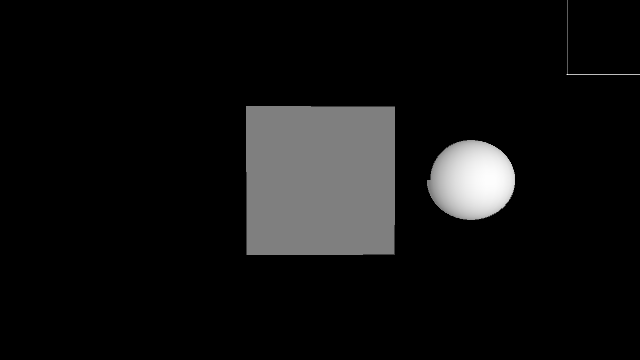
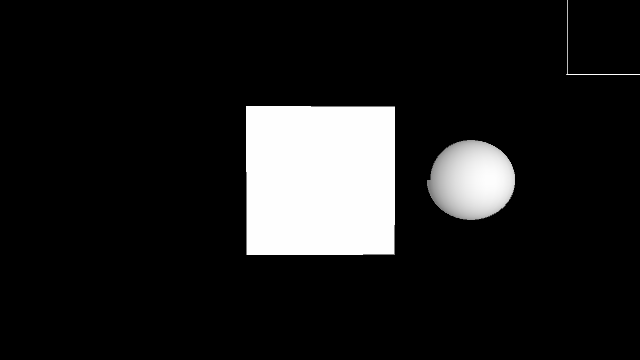
Fix winding order issues for various shapes.

Changed region(s): [[0.375, 0.275, 0.625, 0.7333]]

diff --git a/src/processing_pshape.cc b/src/processing_pshape.cc
@@ -967,15 +967,18 @@ static std::vector<unsigned short> triangulatePolygon(const std::vector<gl::vert
       if( vinds[ p[0] ] == TESS_UNDEF ||
           vinds[ p[1] ] == TESS_UNDEF ||
           vinds[ p[2] ] == TESS_UNDEF ) continue;
-      triangles.push_back( vinds[ p[0] ] );
-      triangles.push_back( vinds[ p[1] ] );
       triangles.push_back( vinds[ p[2] ] );
+      triangles.push_back( vinds[ p[1] ] );
+      triangles.push_back( vinds[ p[0] ] );
    }
 
    return triangles;
 }
 
 void PShapeImpl::populateIndices() {
+   // Becuase we flip the Y-axis to maintain processings coordinate system
+   // we have to reverse the triangle winding direction for any geometry
+   // we don't create and index ourselves.
    DEBUG_METHOD();
    if (indices.size() != 0)
       return;
@@ -995,7 +998,7 @@ void PShapeImpl::populateIndices() {
       }
       style = TRIANGLES;
    } else if (style == TRIANGLE_STRIP || style == QUAD_STRIP) {
-      bool reverse = false;
+      bool reverse = true;
       for (int i = 0; i < vertices.size() - 2; i++ ){
          if (reverse) {
             indices.push_back(i+2);
@@ -1012,16 +1015,16 @@ void PShapeImpl::populateIndices() {
    } else if (style == CONVEX_POLYGON) {
       // Fill with triangle fan
       for (int i = 1; i < vertices.size() - 1 ; i++ ) {
-         indices.push_back( 0 );
-         indices.push_back( i );
          indices.push_back( i+1 );
+         indices.push_back( i );
+         indices.push_back( 0 );
       }
    }  else if (style == TRIANGLE_FAN) {
       // Fill with triangle fan
       for (int i = 1; i < vertices.size() - 1 ; i++ ) {
-         indices.push_back( 0 );
-         indices.push_back( i );
          indices.push_back( i+1 );
+         indices.push_back( i );
+         indices.push_back( 0 );
       }
    } else if (style == POLYGON) {
       indices = triangulatePolygon(vertices, contour);
